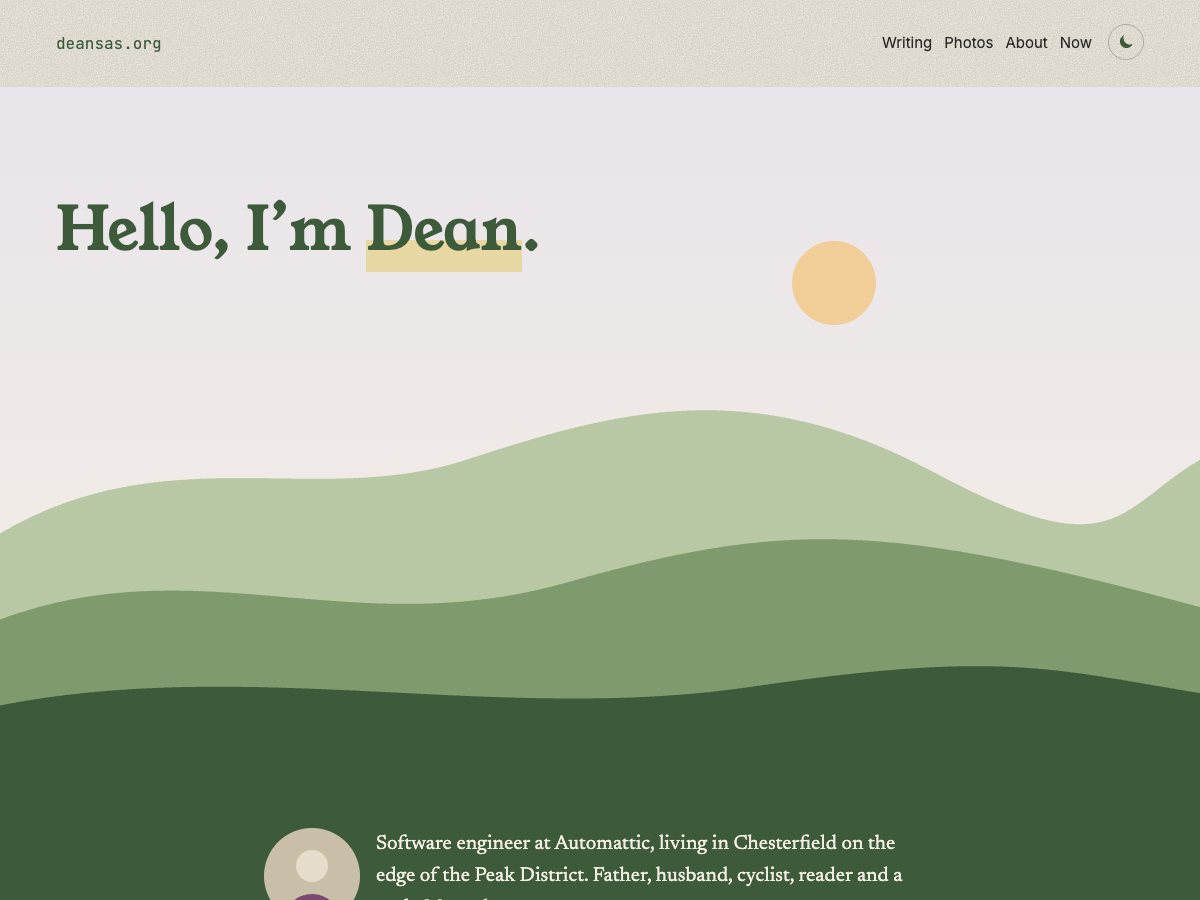
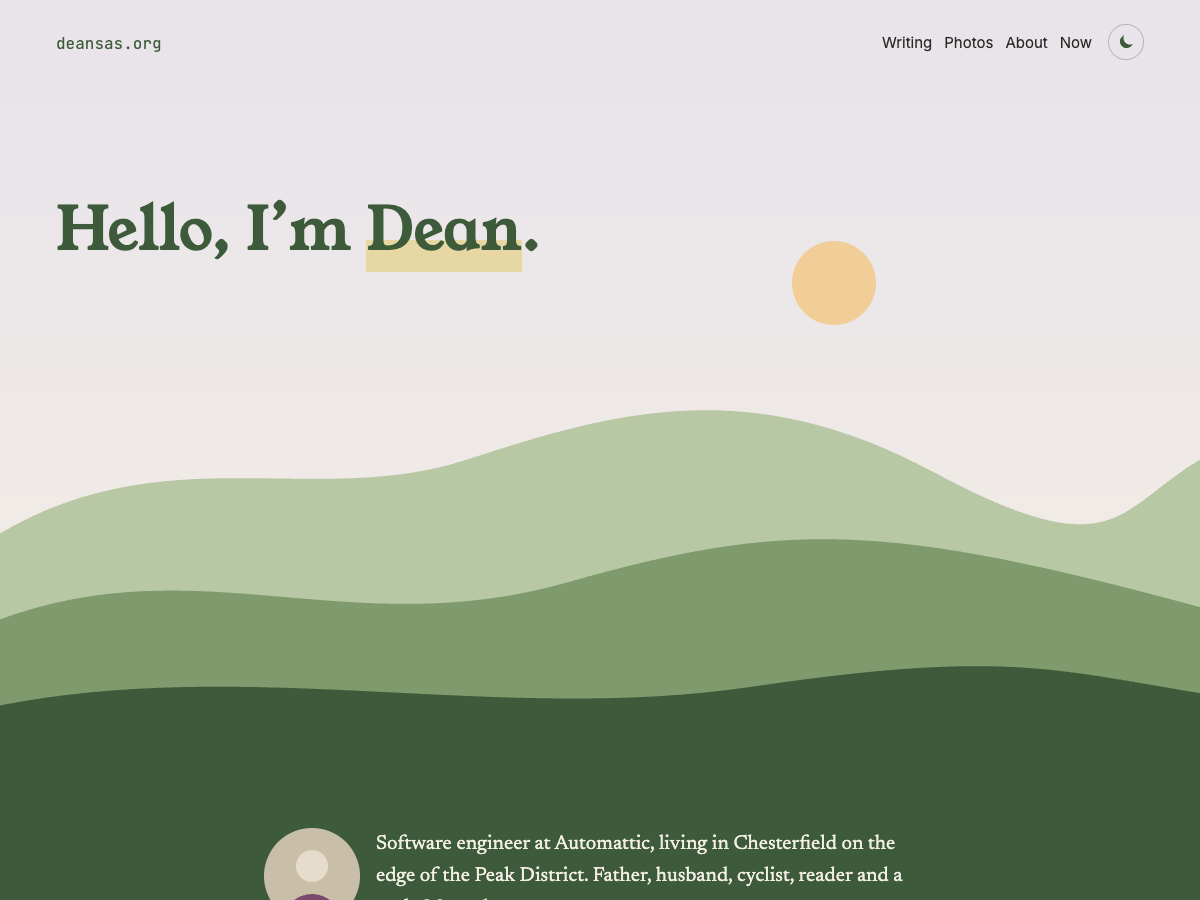
Homepage: header blends into the sky in Peak; sun and hills sit above the Dusk notebook grid; retake screenshot

Changed region(s): [[0.0, 0.0, 1.0, 0.0933]]

diff --git a/assets/css/hero.css b/assets/css/hero.css
@@ -12,7 +12,8 @@
 	inset: 0;
 	max-width: none !important;
 	margin: 0 !important;
-	z-index: 0;
+	/* Sun and hills above the header's notebook grid (the grid still shows on the sky behind them). */
+	z-index: 2;
 }
 
 .peak-hero__title {
@@ -127,4 +128,9 @@ body:has(.peak-home-valley) .peak-footer .peak-hills {
 
 .peak-home > .peak-home-valley {
 	flex-grow: 1;
+}
+
+/* Homepage: the header takes the sky's top colour, so the sky runs unbroken from the top of the window to the hills. */
+body:has(.peak-home) .peak-header {
+	background: var(--wp--custom--sky--top);
 }
